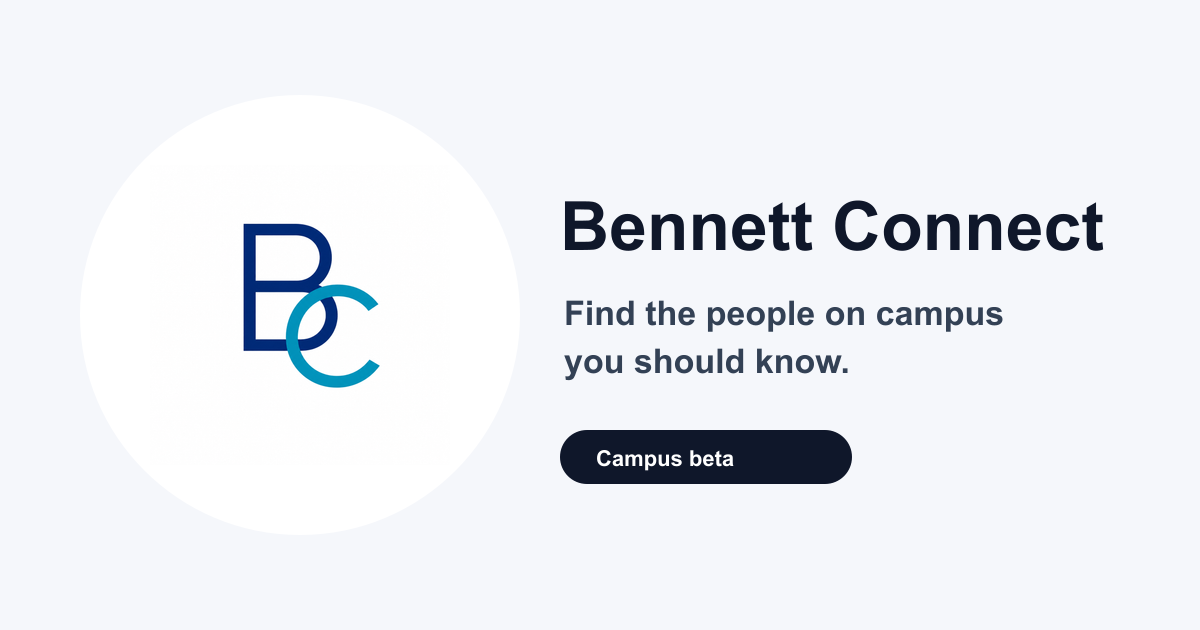
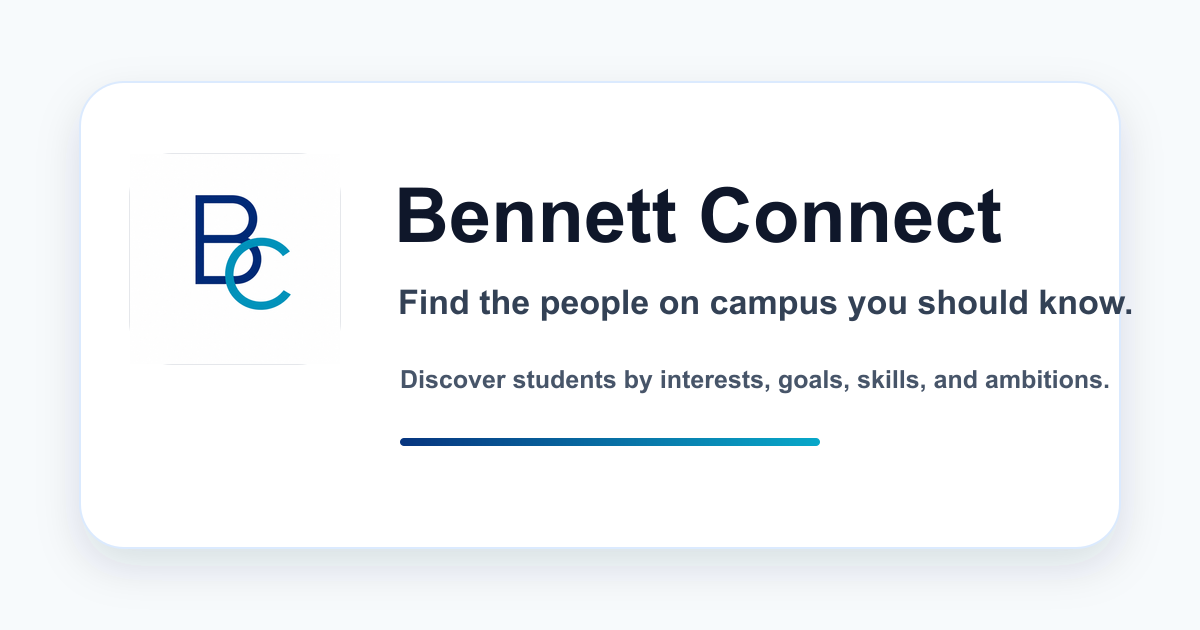
Finalize branding and share preview

diff --git a/app/signup/page.tsx b/app/signup/page.tsx
@@ -61,7 +61,7 @@ export default async function SignupPage({ searchParams }: { searchParams?: Prom
     <PageShell>
       <main className="mx-auto grid min-h-[calc(100svh-56px)] w-full max-w-6xl px-0 sm:min-h-[calc(100vh-64px)] sm:px-4 sm:py-10 lg:grid-cols-[1fr_440px] lg:items-center lg:gap-10">
         <section className="hidden lg:block">
-          <p className="text-sm font-black uppercase tracking-wide text-cyan-700">Campus beta</p>
+          <p className="text-sm font-black uppercase tracking-wide text-cyan-700">Bennett Connect</p>
           <h1 className="mt-3 max-w-xl text-5xl font-black leading-tight text-zinc-950">Find the students you should know before everyone else does.</h1>
           <p className="mt-5 max-w-lg text-lg leading-8 text-zinc-700">Start with Outlook, finish a quick profile, and let Bennett Connect recommend people around your goals, skills, and interests.</p>
           <div className="mt-8 max-w-xl rounded-2xl border border-zinc-200 bg-white p-5 shadow-sm">
@@ -82,7 +82,7 @@ export default async function SignupPage({ searchParams }: { searchParams?: Prom
           </div>
 
           <div className="hidden sm:block">
-            <p className="text-sm font-black uppercase tracking-wide text-cyan-700">Campus beta</p>
+            <p className="text-sm font-black uppercase tracking-wide text-cyan-700">Bennett Connect</p>
             <h1 className="mt-2 text-3xl font-black text-zinc-950">Join your campus</h1>
             <p className="mt-2 text-sm leading-6 text-zinc-600">Create an account with your university email and finish your profile in under two minutes.</p>
           </div>

diff --git a/app/page.tsx b/app/page.tsx
@@ -54,7 +54,7 @@ export default async function Home() {
     <PageShell>
       <main className="mx-auto grid min-h-[calc(100vh-56px)] max-w-6xl items-center gap-6 px-3 py-6 sm:px-4 sm:py-10 md:min-h-[calc(100vh-64px)] md:grid-cols-[1fr_0.9fr] md:gap-10 md:py-16">
         <section>
-          <p className="text-xs font-black uppercase tracking-wide text-cyan-700 sm:text-sm">Bennett campus beta</p>
+          <p className="text-xs font-black uppercase tracking-wide text-cyan-700 sm:text-sm">Bennett Connect</p>
           <h1 className="mt-4 max-w-3xl text-4xl font-black leading-[1.04] text-zinc-950 sm:text-6xl">
             Find the people on campus you should know.
           </h1>

diff --git a/components/ProfileAvatar.tsx b/components/ProfileAvatar.tsx
@@ -22,7 +22,7 @@ export function ProfileAvatar({ src, name, size = "md" }: ProfileAvatarProps) {
   const palette = palettes[paletteIndex];
 
   if (src) {
-    // Supabase avatar URLs are user-provided remote images, so keep rendering flexible for the MVP.
+    // Supabase avatar URLs are user-provided remote images, so keep rendering flexible.
     // eslint-disable-next-line @next/next/no-img-element
     return <img src={src} alt={`${name} profile photo`} className={`${sizeClass} rounded-full border-2 border-white object-cover shadow-sm`} />;
   }

diff --git a/README.md b/README.md
@@ -2,7 +2,7 @@
 
 Find the people on campus you should know.
 
-Bennett Connect is a mobile-first campus networking MVP for Bennett University students. It helps students create profiles, select interests and goals, discover relevant people, send connection requests, post "I need someone for..." requests, and chat with accepted connections.
+Bennett Connect is a mobile-first campus networking platform for Bennett University students. It helps students create profiles, select interests and goals, discover relevant people, send connection requests, post "I need someone for..." requests, and chat with accepted connections.
 
 ## Stack
 
